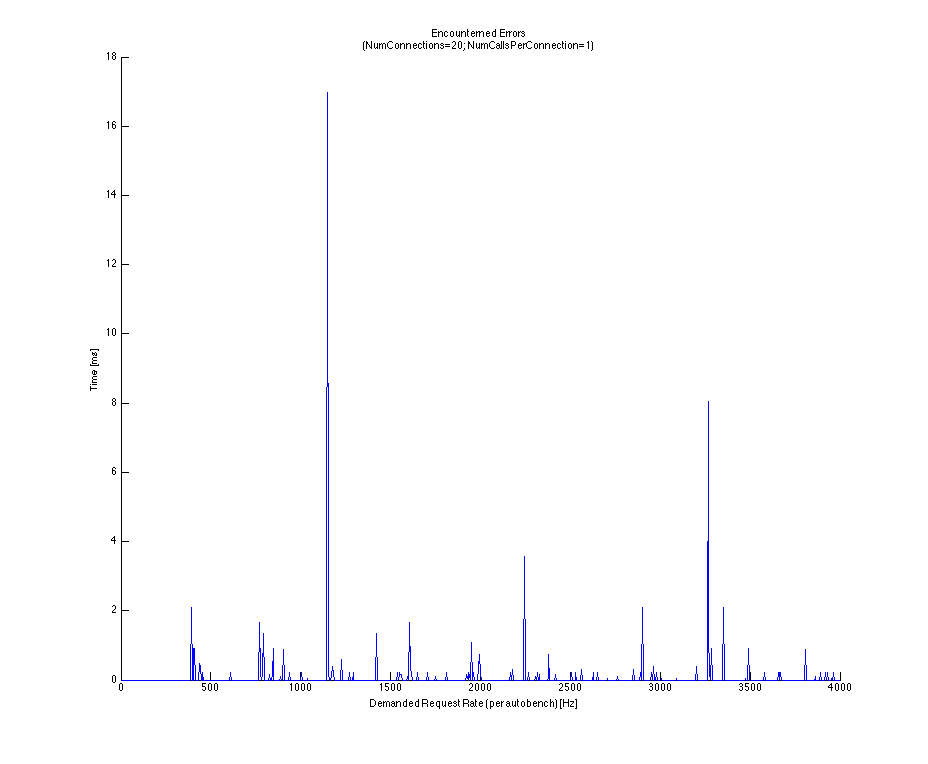
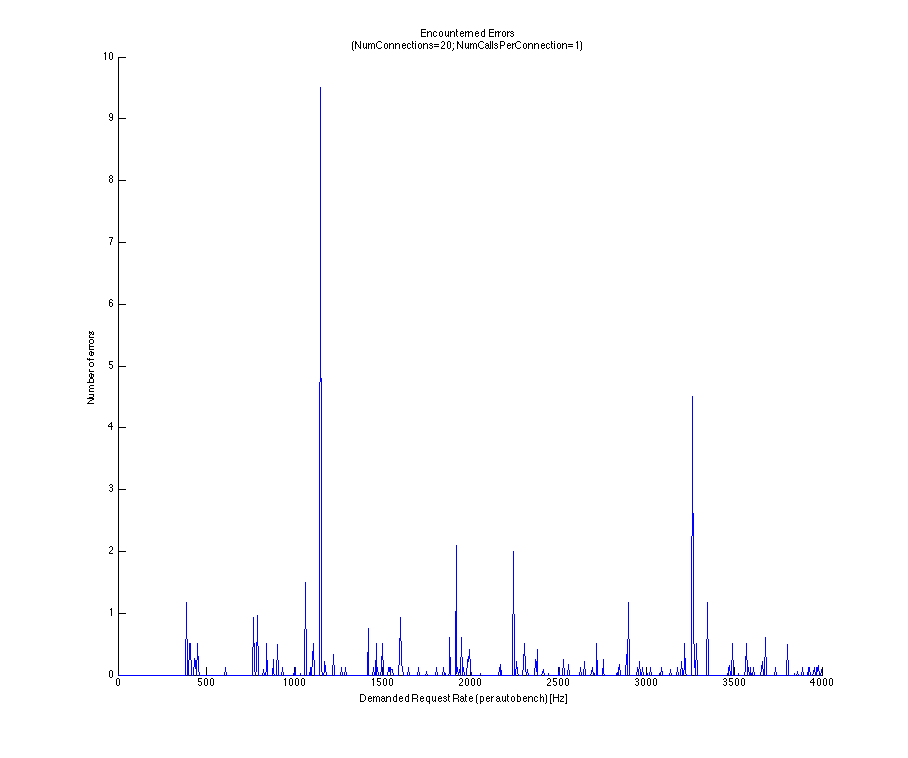
corrected labes on y-axis for errors figure updated figure in figure.tar.gz

diff --git a/dev/performance-tests/catalogue/tests/drawAllFigures.m b/dev/performance-tests/catalogue/tests/drawAllFigures.m
@@ -1,4 +1,4 @@
 
-generateFiguresMatLab('response_time_numcalls_1_', 200, 'NumConnections=20; NumCallsPerConnection=1')
-%generateFiguresMatLab('response_time_numcalls_10_', 2, 'NumConnections=20; NumCallsPerConnection=10')
+%generateFiguresMatLab('response_time_numcalls_1_', 200, 'NumConnections=20; NumCallsPerConnection=1')
+generateFiguresMatLab('response_time_numcalls_10_', 5, 'NumConnections=20; NumCallsPerConnection=10')
 

diff --git a/dev/performance-tests/catalogue/tests/importreplicas.m b/dev/performance-tests/catalogue/tests/importreplicas.m
@@ -12,7 +12,7 @@ function [dem_req_rate,req_rate,con_rate,min_rep_rate,avg_rep_rate,max_rep_rate,
 
 for i = 1:numReplicas
     
-    fname = strcat(fileBaseName, num2str(i), '.tab');
+    fname = strcat(fileBaseName, num2str(i), '.tab')
     
     [dem_req_rate(i,:),req_rate(i,:),con_rate(i,:),min_rep_rate(i,:),avg_rep_rate(i,:),max_rep_rate(i,:),stddev_rep_rate(i,:),resp_time(i,:),net_io(i,:),errors(i,:)]= importfile(fname);
 

diff --git a/dev/performance-tests/catalogue/tests/generateFiguresMatLab.m b/dev/performance-tests/catalogue/tests/generateFiguresMatLab.m
@@ -187,7 +187,7 @@ title(figname)
 
 figure
 xlabel('Demanded Request Rate (per autobench) [Hz]')
-ylabel('Time [ms]')
+ylabel('Number of errors')
 hold all
 plot(bm_dem_req_rate,bm_errors,'DisplayName','Errors');
 hold off
